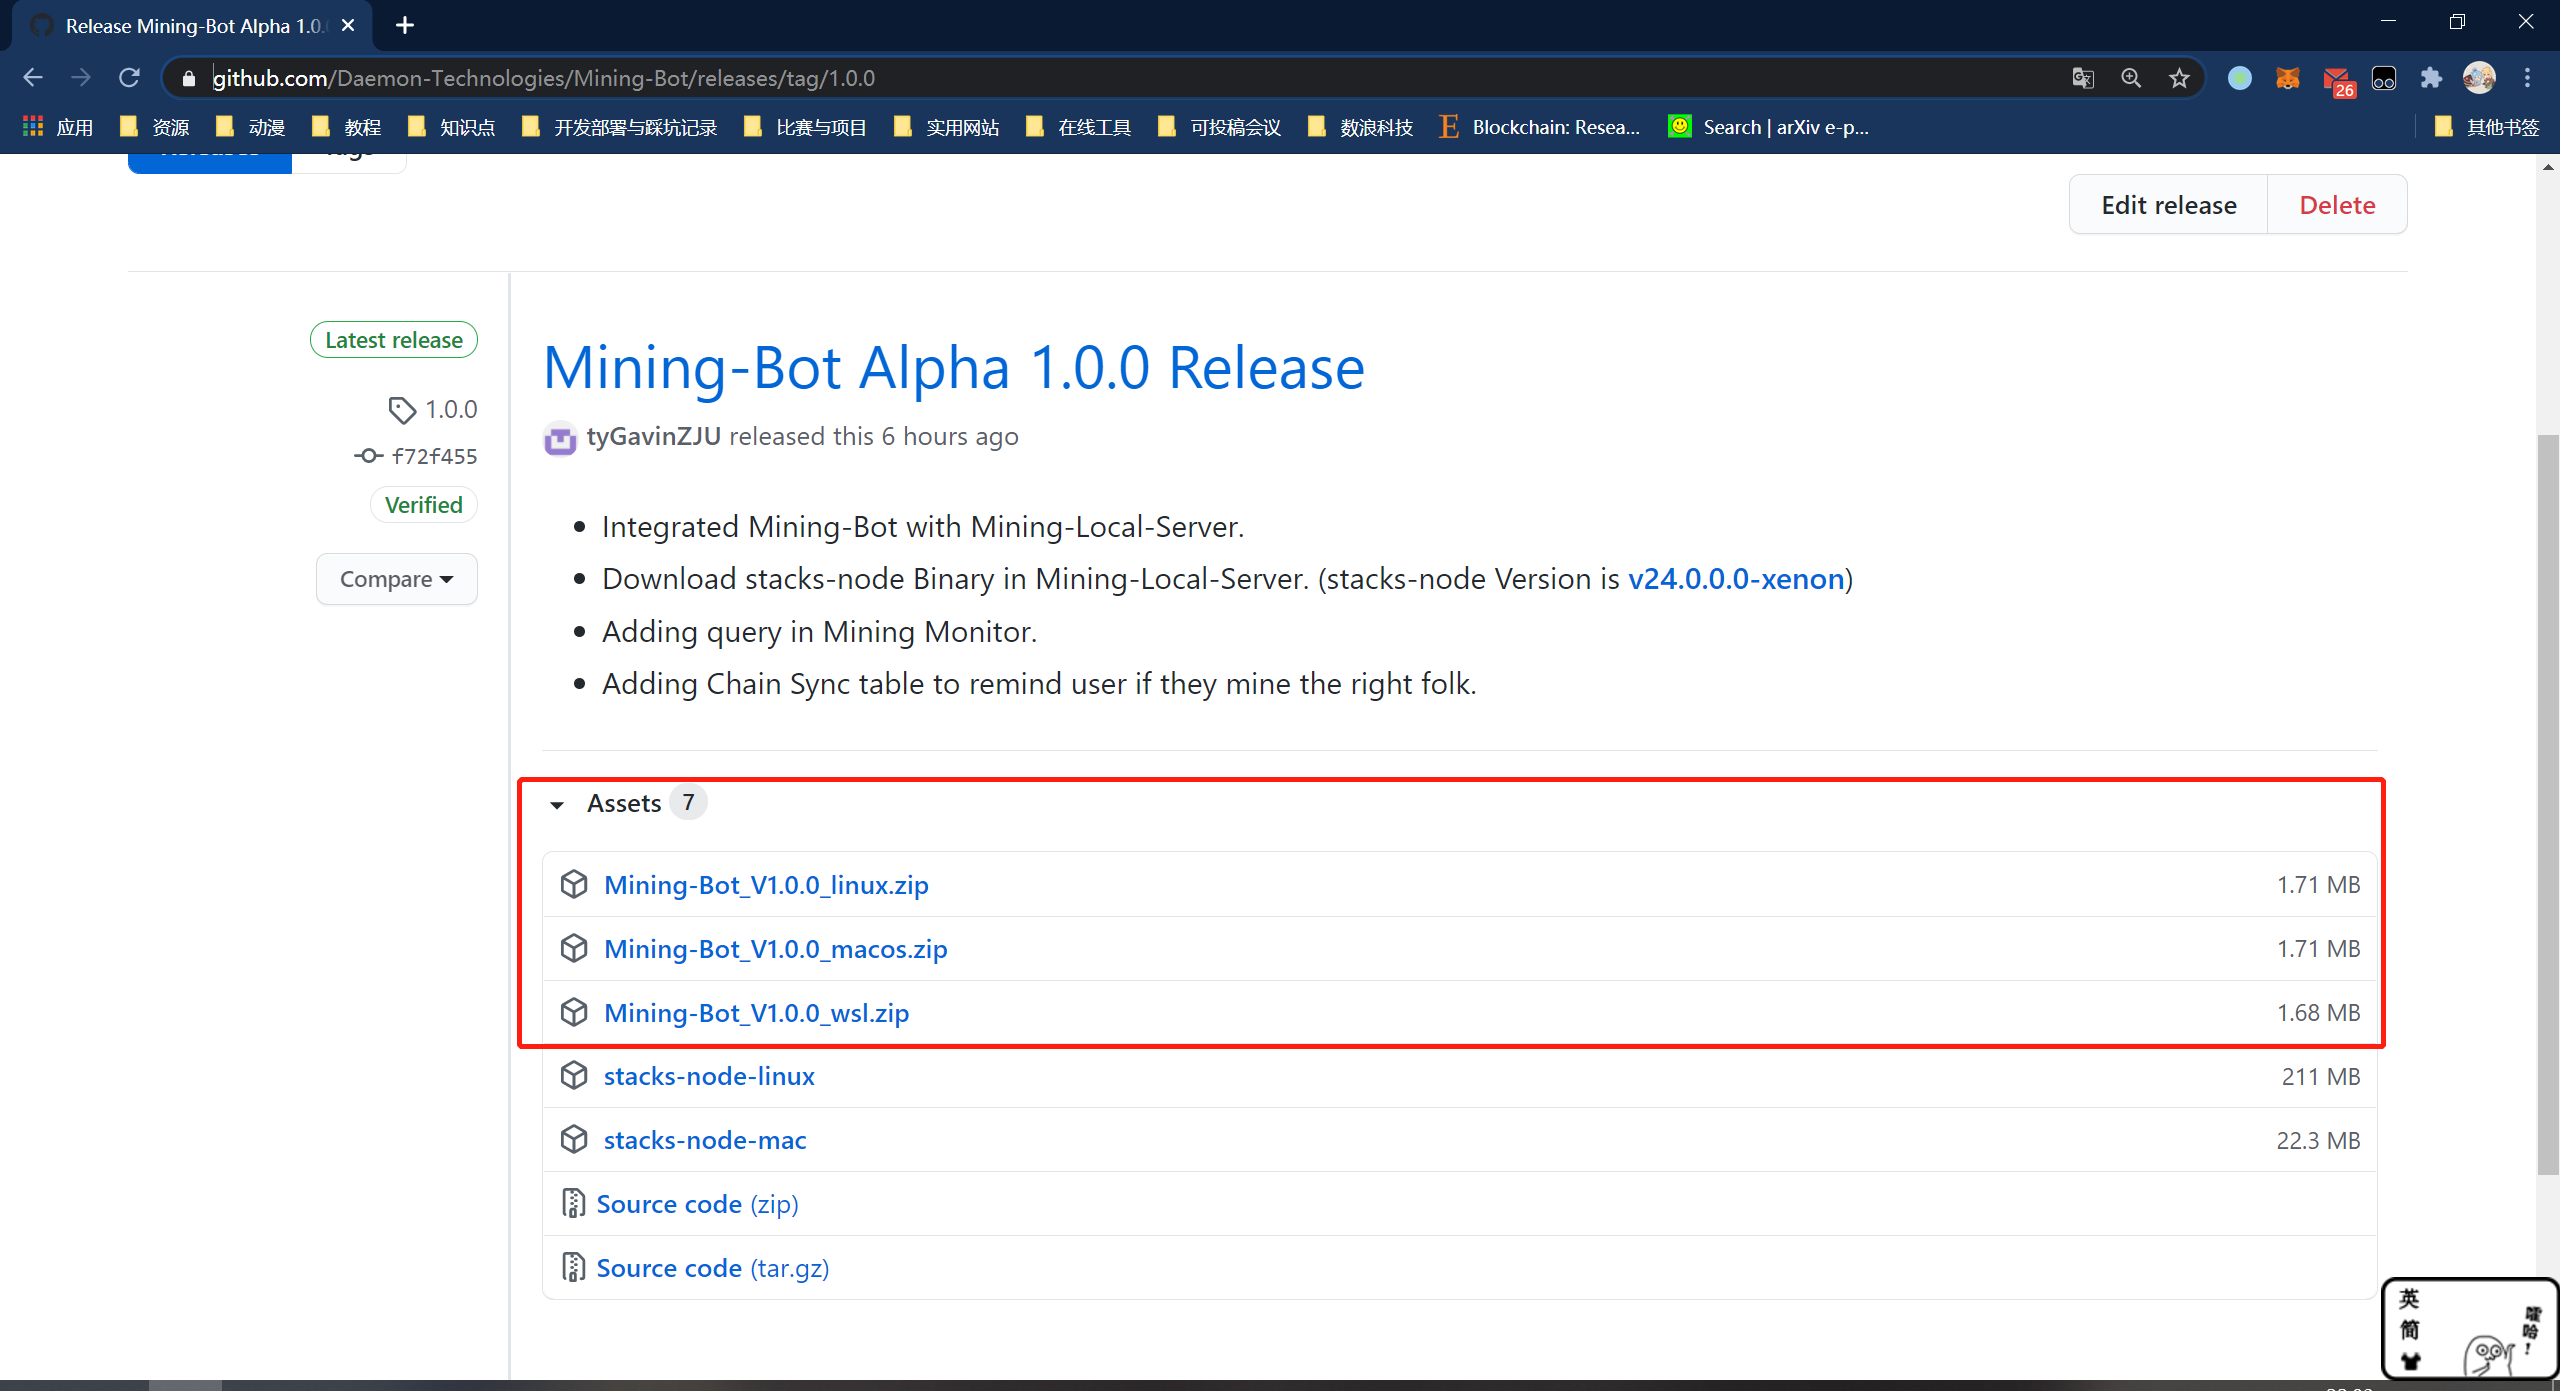
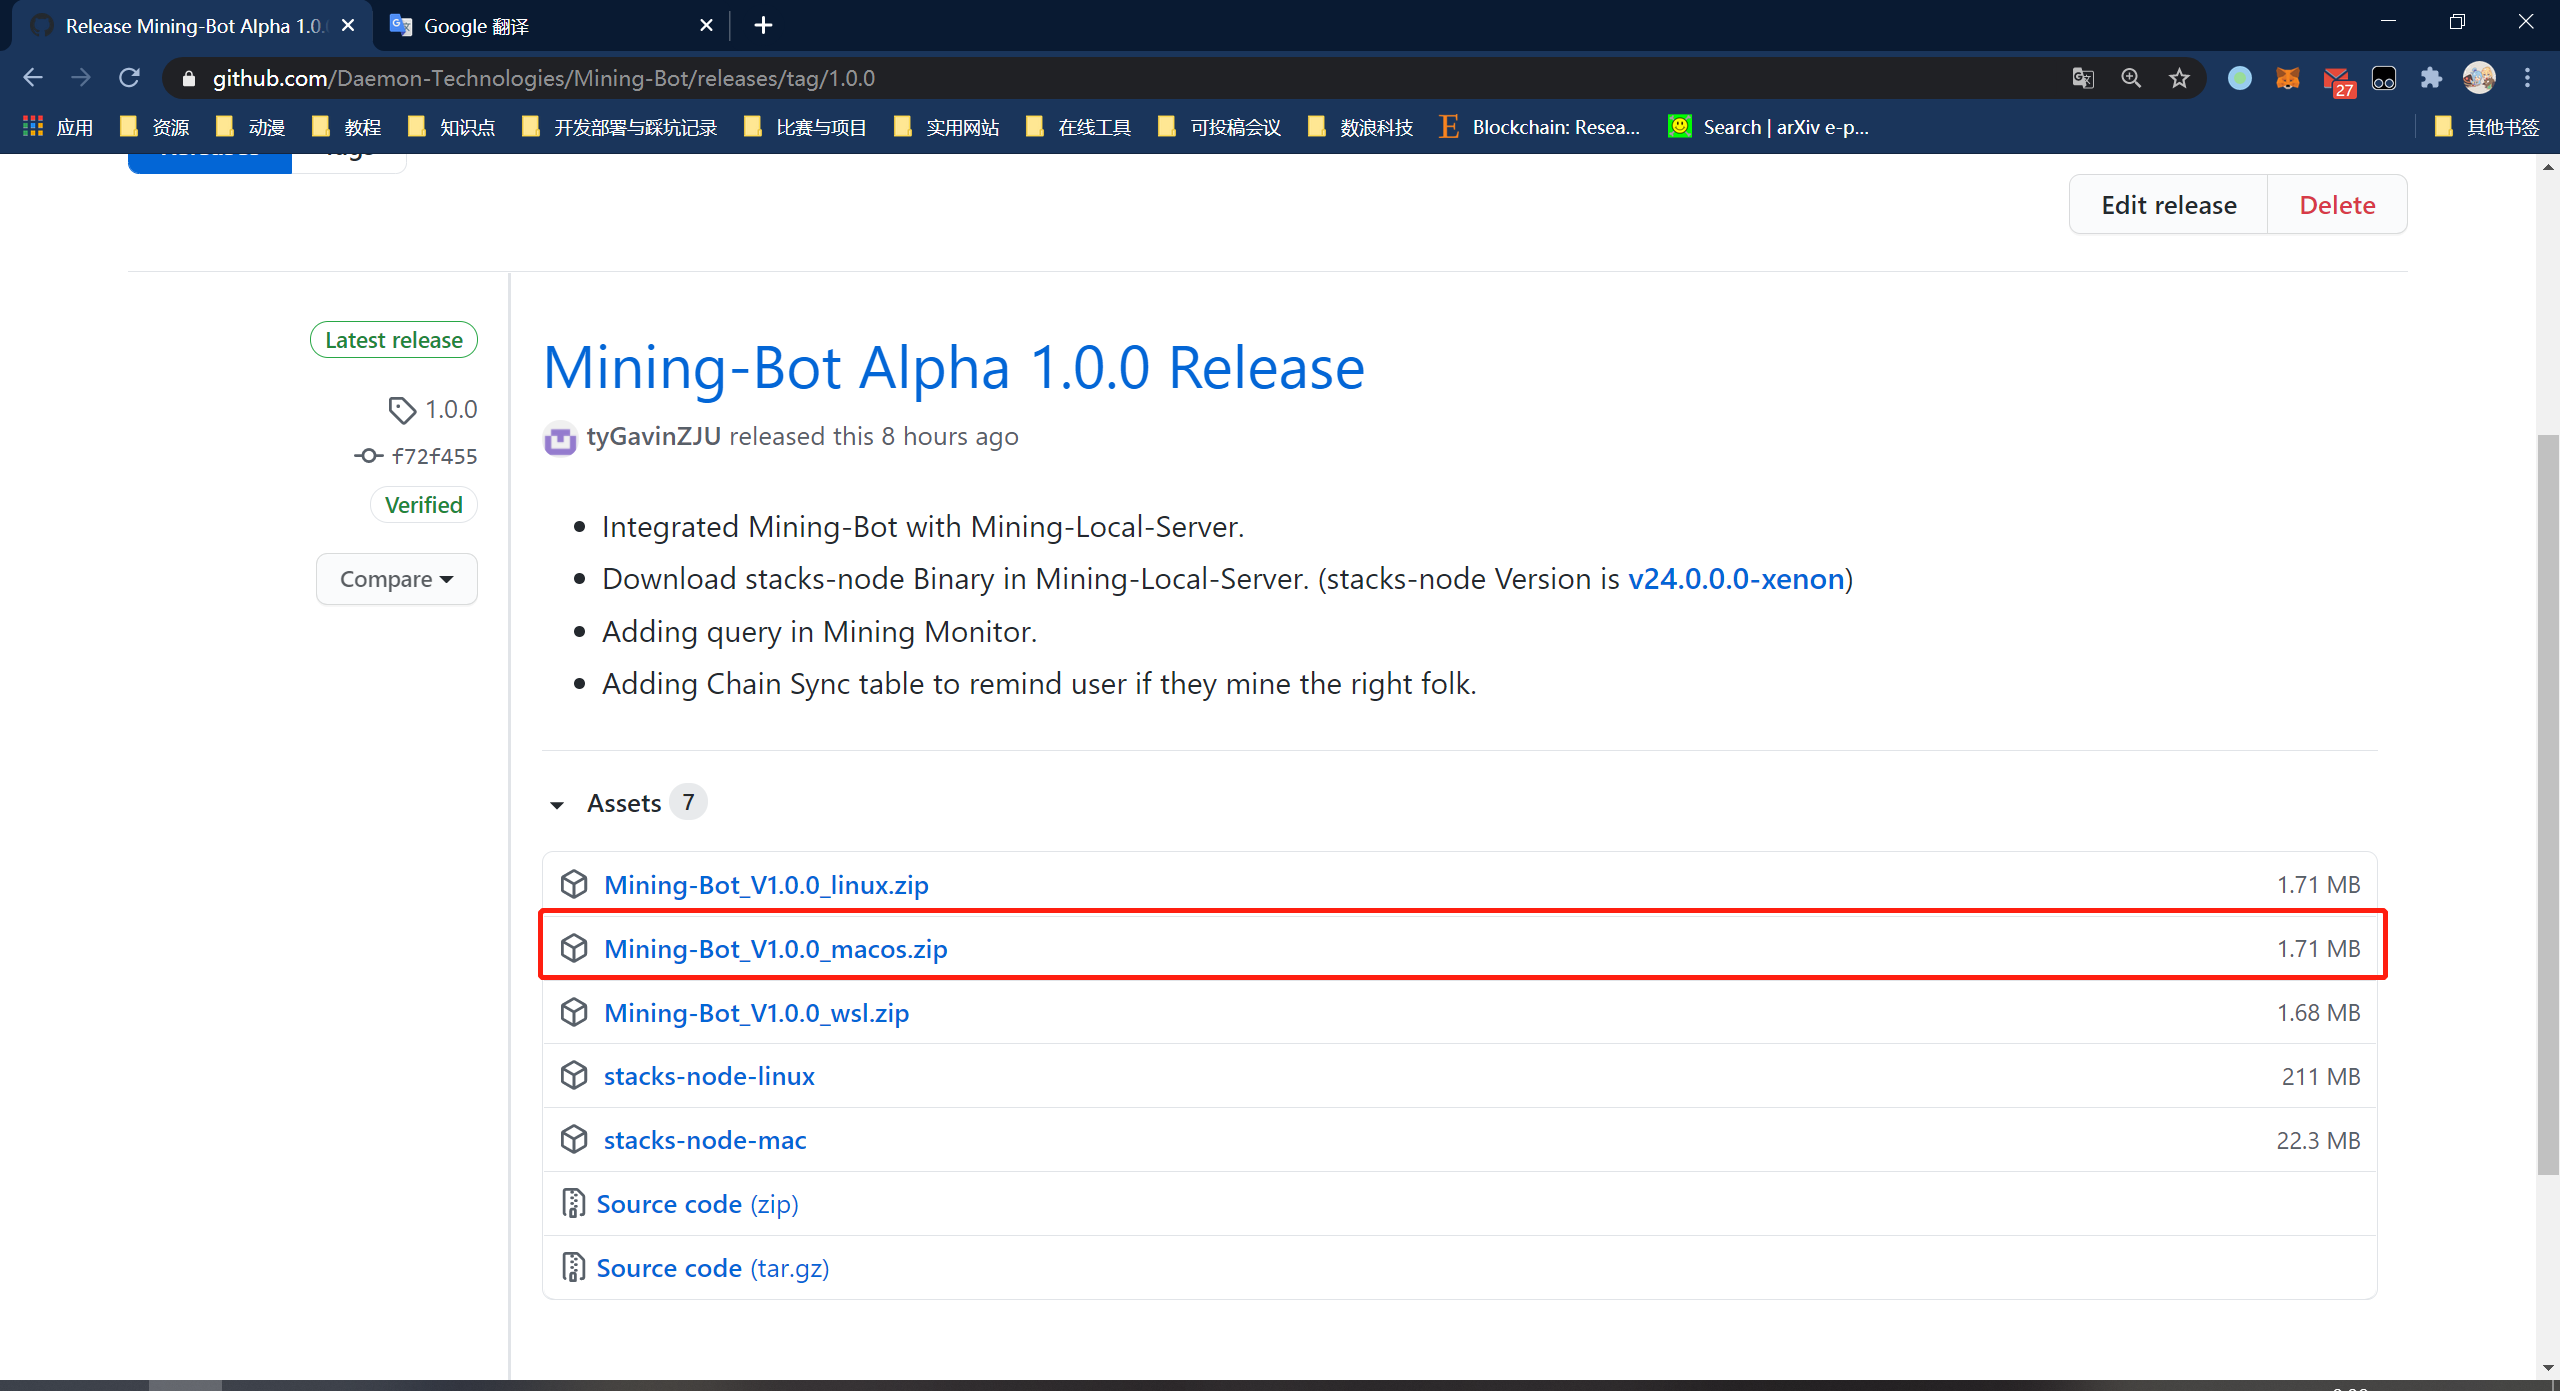
[Sher] modify Mining-Bot-Alpha-Version Docs

diff --git a/Mining-Bot-Alpha-Version/Build-Before-Using/Mining-Bot-Alpha-Tutorial-EN.md b/Mining-Bot-Alpha-Version/Build-Before-Using/Mining-Bot-Alpha-Tutorial-EN.md
@@ -8,6 +8,8 @@ Learn how to set up and run mining bot.
 
 **【Tips】If you are not the first time to start mining-bot, please see [Restart Mining-Bot](#Restart Mining-Bot)**.
 
+**【Tips】 If you want to get more comprehensive information, please see our tutorial video. **
+
 ## Introduction
 
 This tutorial will walk you through the following steps:
@@ -151,21 +153,62 @@ yarn -v
 
 ## Running Mining-Bot
 
-First, open the [Mining-Bot Alpha Release] (https://github.com/Daemon-Technologies/Mining-Bot/releases/tag/1.0.0) page with a browser:
+We have different tutorials for users of different systems:
+
+### Mac User
+
+First, open the [Mining-Bot Alpha Release](https://github.com/Daemon-Technologies/Mining-Bot/releases/tag/1.0.0) page with a browser:
 
 ![releasePage.png](assets/releasePage.png)
 
-Please download the corresponding file in the red box in the picture and decompress it according to your own system version:
+Please download the corresponding file in the red box in the picture and decompress it:
 
 - Mac users: [Mining-Bot_V1.0.0_macos.zip](https://github.com/Daemon-Technologies/Mining-Bot/releases/download/1.0.0/Mining-Bot_V1.0.0_macos.zip)
-- Linux users: [Mining-Bot_V1.0.0_linux.zip](https://github.com/Daemon-Technologies/Mining-Bot/releases/download/1.0.0/Mining-Bot_V1.0.0_linux.zip)
-- Win10 WSL users: [Mining-Bot_V1.0.0_wsl.zip](https://github.com/Daemon-Technologies/Mining-Bot/releases/download/1.0.0/Mining-Bot_V1.0.0_wsl.zip)
+
+![mac_file](assets/mac_file.png)
 
 ![unzip_mac](assets/unzip_mac.jpg)
 
 **【Tips】 Remember the unzipped directory, follow-up operations need to enter the directory. **
 
-If you are a pure command line user, you can use the `wget` command to download, as follows:
+Then get into the decompressed directory:
+
+```shell
+cd Mining-Bot_V1.0.0_macos
+```
+
+Install the dependent package, 【Tips】Here you need to use the `yarn` command to install:
+
+```shell
+yarn install
+```
+
+:warning:**This process will take a few minutes to complete.**
+
+![yarn_install_mac](assets/yarn_install_mac.png)
+
+Then running Mining-Bot:
+
+```shell
+yarn start
+```
+
+If you see the output like the following, that means you start Mining-Bot successfully:
+
+```json
+yarn run v1.22.4
+$ node server.js
+Local Server listening at http://localhost:5000
+Mining-Bot Client listening at http://localhost:8000
+```
+
+![yarn_start_mac](assets/yarn_start_mac.png)
+
+### Linux or WSL User
+
+**Here I take WSL users as an example (The difference lies in the downloaded files**, the file that linux users need to download is `Mining-Bot_V1.0.0_linux.zip`).
+
+First, you can use the `wget` command to download, as follows:
 
 ```shell
 wget https://github.com/Daemon-Technologies/Mining-Bot/releases/download/1.0.0/Mining-Bot_V1.0.0_wsl.zip
@@ -181,7 +224,13 @@ unzip Mining-Bot_V1.0.0_wsl.zip -d Mining-Bot-Alpha
 
 ![unzip](assets/unzip.png)
 
-Then get into the decompressed directory to install the dependent package, 【Tips】Here you need to use the `yarn` command to install:
+Then get into the decompressed directory:
+
+```shell
+cd Mining-Bot-Alpha
+```
+
+Install the dependent package, 【Tips】Here you need to use the `yarn` command to install:
 
 ```shell
 yarn install
@@ -231,7 +280,7 @@ If you have successfully run Mining-Bot and have stopped all related programs. N
 
 ### Running Mining-Bot
 
-Open a new window and enter the unzipped directory of your zip file at that time, start Mining-Bot-Alpha:
+Open a new terminal and **enter the unzipped directory of your zip file at that time**, start Mining-Bot-Alpha:
 
 ```shell
 yarn start

diff --git a/Mining-Bot-Alpha-Version/Build-Before-Using/Mining-Bot-Alpha-Tutorial-CN.md b/Mining-Bot-Alpha-Version/Build-Before-Using/Mining-Bot-Alpha-Tutorial-CN.md
@@ -8,6 +8,10 @@ sort: 2
 
 **【提醒】如果你不是第一次运行挖矿机器人，请查阅[重启Mining-Bot](#重启Mining-Bot)。**
 
+**【提醒】建议全程保持科学上网。**
+
+**【提醒】如果想获取更全面的信息，请查看我们的视频教程。**
+
 ## 介绍
 
 本教程会带你经历以下步骤：
@@ -146,21 +150,60 @@ yarn -v
 
 ## 运行Mining-Bot
 
+我们针对不同系统的用户有不同的教程：
+
+### Mac用户
+
 首先，用浏览器打开[Mining-Bot Alpha Release](https://github.com/Daemon-Technologies/Mining-Bot/releases/tag/1.0.0)页面：
 
 ![releasePage.png](assets/releasePage.png)
 
-请根据自己的系统版本**下载图片中红框内对应的文件并进行解压**：
+请**下载图片中红框内对应的文件并进行解压**：
 
 - mac用户：[Mining-Bot_V1.0.0_macos.zip](https://github.com/Daemon-Technologies/Mining-Bot/releases/download/1.0.0/Mining-Bot_V1.0.0_macos.zip)
-- Linux用户：[Mining-Bot_V1.0.0_linux.zip](https://github.com/Daemon-Technologies/Mining-Bot/releases/download/1.0.0/Mining-Bot_V1.0.0_linux.zip)
-- Win10 WSL用户：[Mining-Bot_V1.0.0_wsl.zip](https://github.com/Daemon-Technologies/Mining-Bot/releases/download/1.0.0/Mining-Bot_V1.0.0_wsl.zip)
+
+![mac_file](assets/mac_file.png)
 
 ![unzip_mac](assets/unzip_mac.jpg)
 
-**【提示】记住解压缩的目录，后续操作都需要进入目录内进行。**
+然后进入解压后的目录：
 
-如果你是纯命令行操作的用户，可以使用`wget`命令进行下载，如下：
+```shell
+cd Mining-Bot_V1.0.0_macos
+```
+
+然后安装依赖包，【注意】此处需要用`yarn`命令进行安装：
+
+```shell
+yarn install
+```
+
+:warning:**此过程会花费一定的时间来完成。**
+
+![yarn_install_mac](assets/yarn_install_mac.png)
+
+通过`yarn`命令运行Mining-Bot
+
+```shell
+yarn start
+```
+
+如果你看到类似如下输出则代表Mining-Bot已成功启动：
+
+```shell
+yarn run v1.22.4
+$ node server.js
+Local Server listening at http://localhost:5000
+Mining-Bot Client listening at http://localhost:8000
+```
+
+![yarn_start_mac](assets/yarn_start_mac.png)
+
+### Linux或WSL用户
+
+**这里以WSL用户为例**（**区别就在于下载的文件**，linux用户需要下载的文件是`Mining-Bot_V1.0.0_linux.zip`）。
+
+首先，使用`wget`命令进行下载，如下：
 
 ```shell
 wget https://github.com/Daemon-Technologies/Mining-Bot/releases/download/1.0.0/Mining-Bot_V1.0.0_wsl.zip
@@ -176,7 +219,13 @@ unzip Mining-Bot_V1.0.0_wsl.zip -d Mining-Bot-Alpha
 
 ![unzip](assets/unzip.png)
 
-然后进入解压后的目录安装依赖包，【注意】此处需要用`yarn`命令进行安装：
+然后进入解压后的目录：
+
+```shell
+cd Mining-Bot-Alpha
+```
+
+然后安装依赖包，【注意】此处需要用`yarn`命令进行安装：
 
 ```shell
 yarn install
@@ -227,7 +276,13 @@ Mining-Bot Client listening at http://172.23.215.133:8000
 
 ### 运行Mining-Bot
 
-打开一个新窗口然后进入你当时zip文件的解压目录，启动Mining-Bot-Alpha：
+打开一个新窗口然后**进入你当时zip文件的解压目录**，此处以`Mining-Bot-Alpha`为例：
+
+```shell
+cd Mining-Bot-Alpha
+```
+
+启动Mining-Bot-Alpha：
 
 ```shell
 yarn start

diff --git a/Mining-Bot-Alpha-Version/Use-Mining-Bot-For-Mining/User's-Guide-of-Mining-Bot.md b/Mining-Bot-Alpha-Version/Use-Mining-Bot-For-Mining/User's-Guide-of-Mining-Bot.md
@@ -9,6 +9,8 @@ This documentation will introduce to you how to mine STX using Mining-Bot
 
 - [Pre-order tutorial](../Build-Before-Using/Mining-Bot-Alpha-Tutorial-EN.md)
 
+**【Tips】 A video will be released later, please refer to the video for specific instructions. **
+
 ## Login Page Introduction
 
 When you input **http://localhost:8000/** in your browser, you will see the following interface:

diff --git a/Mining-Bot-Alpha-Version/Use-Mining-Bot-For-Mining/User's-Guide-of-Mining-Bot-CN.md b/Mining-Bot-Alpha-Version/Use-Mining-Bot-For-Mining/User's-Guide-of-Mining-Bot-CN.md
@@ -6,7 +6,10 @@ sort: 2
 # 挖矿机器人使用说明书
 
 本教程将会介绍如何使用挖矿机器人进行STX挖矿
+
 - [前序环境搭建教程](../Build-Before-Using/Mining-Bot-Alpha-Tutorial-EN.md)
+
+**【提醒】后续会有视频放出，具体的使用说明大家可以参照视频。**
 
 ## 登陆页面介绍
 
